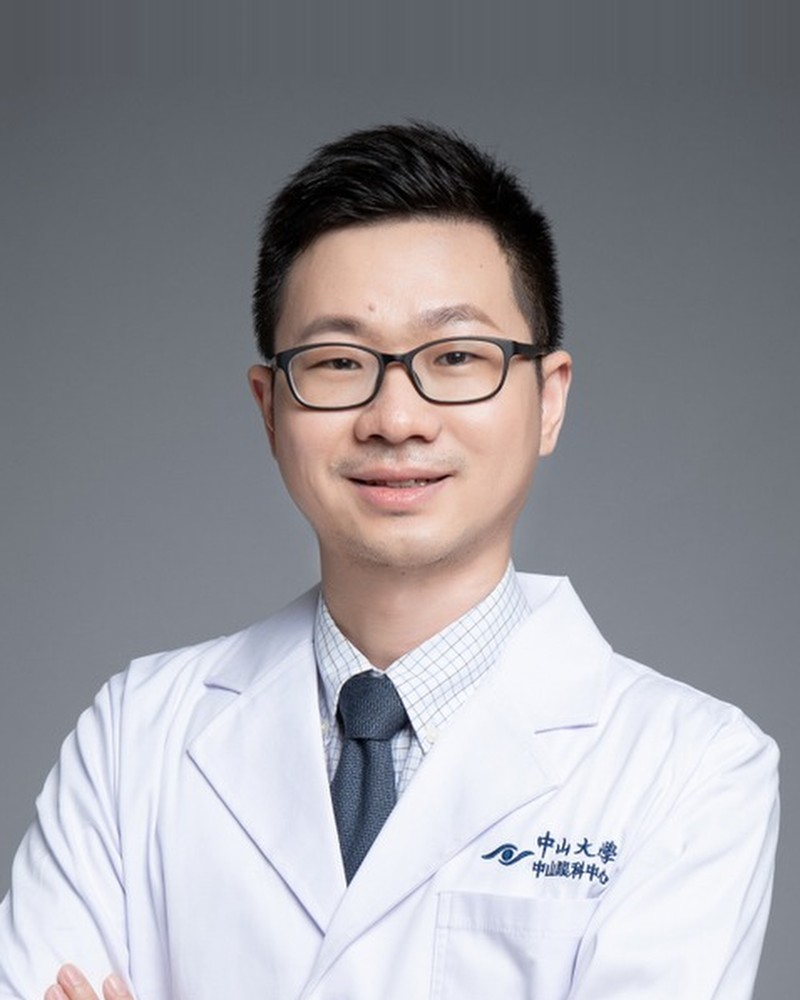
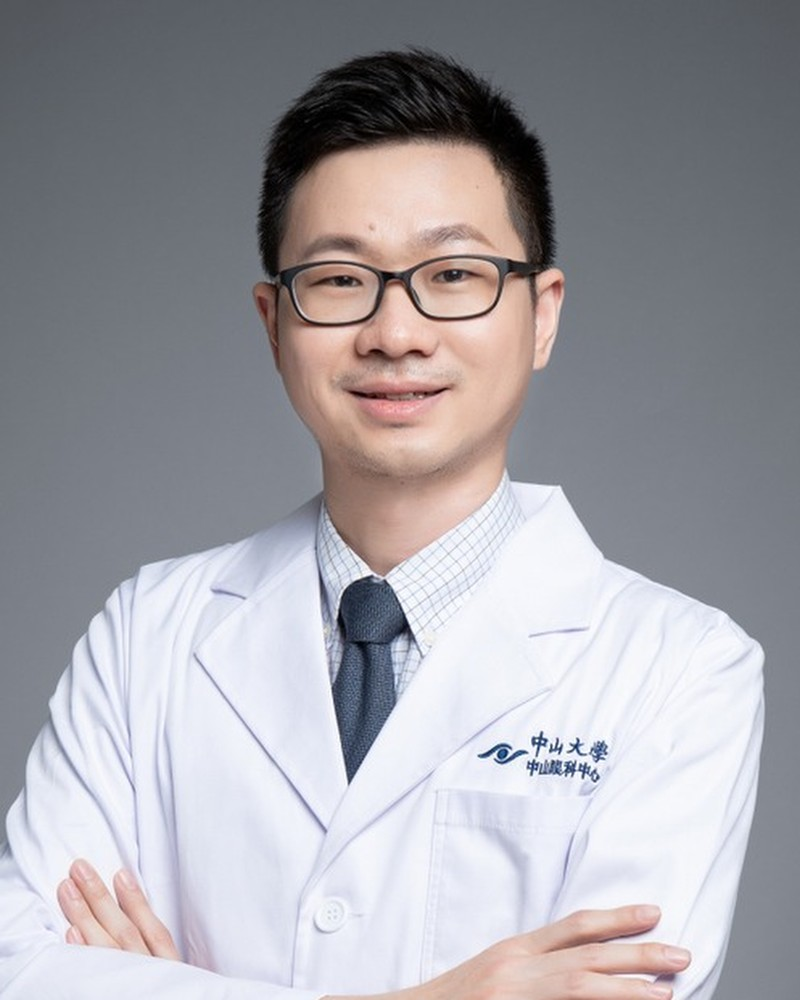
Second review pass
- Faculty photos: re-crop gao & cheng (and all five) from real pixels
  only - no synthetic fill, removing the top P-trace on gao and the
  smeared hair on cheng; heads stay aligned.
- Index hero: remove the stray white bottom border line; add a centered
  "Core Research Strengths" heading above the four capability cards.
- Headings: enlarge the eyebrow/kicker labels (e.g. "Our Cohorts").
- Page backgrounds: replace the photo heroes that reused the index image
  / looked unclear with purpose-built thematic SVGs - cohorts (cohort
  timelines), publications (rising output), data access (secure network).
- Cohorts hero chips: 18 years / Multi-omics / 7,000+ (was duplicate
  sample sizes); add ZHMC 7,000+ participants (incl. sub-cohorts) to the
  ZHMC description and sidebar.
- Bump asset cache-buster (polish5).

diff --git a/cohorts.html b/cohorts.html
@@ -7,7 +7,7 @@
 <meta name="description" content="Overview of the three ZOC-OEC longitudinal cohorts: ZAP (angle closure), GDES (diabetic eye disease), and ZHMC (high myopia).">
 <link rel="preconnect" href="https://fonts.googleapis.com">
 <link href="https://fonts.googleapis.com/css2?family=Inter:wght@400;500;600;700;800&display=swap" rel="stylesheet">
-<link rel="stylesheet" href="assets/css/site.css?v=20260620-polish4">
+<link rel="stylesheet" href="assets/css/site.css?v=20260620-polish5">
 <style>
 /* Cohort page extras */
 .cohort-overview{display:grid;grid-template-columns:repeat(3,minmax(0,1fr));gap:18px;margin-bottom:2.5rem}
@@ -122,9 +122,9 @@
       <p>Three complementary cohorts from Zhongshan Ophthalmic Center connect randomized prevention evidence, diabetic eye multi-omics, and high-myopia progression research.</p>
     </div>
     <div class="page-hero__cards" aria-label="Cohort highlights">
-      <div class="hero-chip"><strong>889</strong><span>ZAP randomized trial participants</span></div>
-      <div class="hero-chip"><strong>3,000+</strong><span>GDES diabetic eye participants</span></div>
-      <div class="hero-chip"><strong>14 years</strong><span>ZHMC high-myopia follow-up platform</span></div>
+      <div class="hero-chip"><strong>18 years</strong><span>ZAP within-person prevention RCT</span></div>
+      <div class="hero-chip"><strong>Multi-omics</strong><span>GDES imaging, proteomics &amp; metabolomics</span></div>
+      <div class="hero-chip"><strong>7,000+</strong><span>ZHMC participants incl. sub-cohorts</span></div>
     </div>
   </div>
 </div>
@@ -302,7 +302,7 @@
 
       <div class="cohort-body">
         <div class="cohort-desc">
-          <p><strong>ZHMC</strong> &mdash; the Zhongshan High Myopia Cohort &mdash; is a long-running clinical registry and prospective platform for high-myopia progression in children and adults, combining deep OCT/OCTA imaging with AI risk modelling and myopia-control intervention trials.</p>
+          <p><strong>ZHMC</strong> &mdash; the Zhongshan High Myopia Cohort &mdash; is a long-running clinical registry and prospective platform for high-myopia progression in children and adults. Together with its sub-cohorts it now follows more than <strong>7,000</strong> participants, combining deep OCT/OCTA imaging with AI risk modelling and myopia-control intervention trials.</p>
 
           <div class="cohort-keypoints">
             <div class="cohort-keypoint"><strong>High-myopia registry</strong><span>Longitudinal records for children and adults with high myopia.</span></div>
@@ -325,12 +325,12 @@
 
         <div class="cohort-stats">
           <div class="cstat cstat--zhmc">
-            <div class="cstat__num">14+</div>
-            <div class="cstat__lbl">Years Follow-up</div>
+            <div class="cstat__num">7,000+</div>
+            <div class="cstat__lbl">Participants (incl. sub-cohorts)</div>
           </div>
           <div class="cstat cstat--zhmc">
-            <div class="cstat__num">OCT</div>
-            <div class="cstat__lbl">Deep Imaging</div>
+            <div class="cstat__num">14+</div>
+            <div class="cstat__lbl">Years Follow-up</div>
           </div>
           <div class="cstat cstat--zhmc">
             <div class="cstat__num">AI</div>

diff --git a/assets/css/site.css b/assets/css/site.css
@@ -111,7 +111,6 @@ p{color:rgba(255,255,255,.82)}
   background-position:right 44%;
   background-repeat:no-repeat;
   background-color:var(--bg);
-  border-bottom:1px solid rgba(255,255,255,.1);
 }
 .hero::before{
   content:'';position:absolute;inset:0;z-index:0;
@@ -191,8 +190,8 @@ p{color:rgba(255,255,255,.82)}
 .sec-hd--c{text-align:center}
 .eyebrow{
   display:inline-flex;align-items:center;gap:8px;
-  font-size:.73rem;font-weight:700;letter-spacing:.14em;
-  text-transform:uppercase;color:var(--cyan);margin-bottom:10px;
+  font-size:.92rem;font-weight:800;letter-spacing:.16em;
+  text-transform:uppercase;color:var(--cyan);margin-bottom:12px;
 }
 .sec-title{font-size:clamp(1.75rem,3.2vw,2.4rem);font-weight:800}
 .sec-desc{color:rgba(255,255,255,.56);margin-top:12px;line-height:1.72;font-size:1.02rem}
@@ -213,6 +212,8 @@ p{color:rgba(255,255,255,.82)}
 }
 
 /* Feature strip */
+.feature-intro{max-width:1280px;margin:6px auto 0;padding:22px 24px 0;text-align:center}
+.feature-intro .sec-title{margin-top:6px}
 .feature-strip{
   display:grid;grid-template-columns:repeat(4,minmax(0,1fr));
   gap:22px;
@@ -350,10 +351,10 @@ p{color:rgba(255,255,255,.82)}
     linear-gradient(100deg,rgba(5,13,29,.92) 0%,rgba(7,22,44,.78) 52%,rgba(0,61,92,.38) 100%),
     radial-gradient(ellipse 68% 100% at 86% 42%,rgba(0,212,255,.16),transparent 70%);
 }
-.page-hero--cohorts{background-image:url('/images/Cover.png');background-position:right 45%}
-.page-hero--publications{background-image:url('/images/retina.jpg');background-position:center 42%}
+.page-hero--cohorts{background-image:url('/images/bg-cohorts.svg');background-position:center}
+.page-hero--publications{background-image:url('/images/bg-publications.svg');background-position:center}
 .page-hero--team{background-image:url('/images/team-bg.jpg');background-position:center}
-.page-hero--data{background-image:url('/images/pacg.jpg');background-position:center 38%}
+.page-hero--data{background-image:url('/images/bg-data.svg');background-position:center}
 .page-hero__grid{
   position:relative;z-index:1;display:grid;grid-template-columns:minmax(0,1fr) 360px;
   gap:48px;align-items:center;

diff --git a/index.html b/index.html
@@ -7,7 +7,7 @@
 <meta name="description" content="ZOC-OEC is the Zhongshan Ophthalmic Center Ocular Epidemiology Consortium &mdash; advancing precision ophthalmology through longitudinal cohort research, multimodal imaging, and global collaboration.">
 <link rel="preconnect" href="https://fonts.googleapis.com">
 <link href="https://fonts.googleapis.com/css2?family=Inter:wght@400;500;600;700;800&display=swap" rel="stylesheet">
-<link rel="stylesheet" href="assets/css/site.css?v=20260620-polish4">
+<link rel="stylesheet" href="assets/css/site.css?v=20260620-polish5">
 </head>
 <body>
 
@@ -72,6 +72,10 @@
 </section>
 
 <!-- FEATURE STRIP -->
+<div class="feature-intro">
+  <p class="eyebrow">What We Do</p>
+  <h2 class="sec-title">Core Research Strengths</h2>
+</div>
 <div class="feature-strip">
   <div class="feature-item">
     <div class="feature-item__icon">
@@ -307,4 +311,4 @@
   </p>
 </footer>
 
-<script src="assets/js/site.js?v=20260620-polish4"></script>
+<script src="assets/js/site.js?v=20260620-polish5"></script>

diff --git a/publications.html b/publications.html
@@ -7,7 +7,7 @@
 <meta name="description" content="Browse ZOC-OEC publications from the ZAP, GDES, and ZHMC cohorts. Filter by cohort, year, or search by title, author, or journal.">
 <link rel="preconnect" href="https://fonts.googleapis.com">
 <link href="https://fonts.googleapis.com/css2?family=Inter:wght@400;500;600;700;800&display=swap" rel="stylesheet">
-<link rel="stylesheet" href="assets/css/site.css?v=20260620-polish4">
+<link rel="stylesheet" href="assets/css/site.css?v=20260620-polish5">
 </head>
 <body>
 
@@ -667,6 +667,6 @@
   <p class="footer__text">&copy; 2025 ZOC-OEC &mdash; <a href="https://www.gzzoc.com" target="_blank" rel="noopener">Zhongshan Ophthalmic Center</a>, Sun Yat-sen University</p>
 </footer>
 
-<script src="assets/js/site.js?v=20260620-polish4"></script>
+<script src="assets/js/site.js?v=20260620-polish5"></script>
 </body>
 </html>

diff --git a/contact.html b/contact.html
@@ -10,7 +10,7 @@ layout: none
 <meta name="description" content="Contact the ZOC-OEC research group at Zhongshan Ophthalmic Center, Sun Yat-sen University.">
 <link rel="preconnect" href="https://fonts.googleapis.com">
 <link href="https://fonts.googleapis.com/css2?family=Inter:wght@400;500;600;700;800&display=swap" rel="stylesheet">
-<link rel="stylesheet" href="assets/css/site.css?v=20260620-polish4">
+<link rel="stylesheet" href="assets/css/site.css?v=20260620-polish5">
 </head>
 <body>
 
@@ -103,6 +103,6 @@ layout: none
   <p class="footer__text">&copy; 2025 ZOC-OEC &mdash; <a href="https://www.gzzoc.com" target="_blank" rel="noopener">Zhongshan Ophthalmic Center</a>, Sun Yat-sen University</p>
 </footer>
 
-<script src="assets/js/site.js?v=20260620-polish4"></script>
+<script src="assets/js/site.js?v=20260620-polish5"></script>
 </body>
 </html>

diff --git a/team.html b/team.html
@@ -7,7 +7,7 @@
 <meta name="description" content="Meet the ZOC-OEC research team led by Professor Wei Wang at Zhongshan Ophthalmic Center, Sun Yat-sen University.">
 <link rel="preconnect" href="https://fonts.googleapis.com">
 <link href="https://fonts.googleapis.com/css2?family=Inter:wght@400;500;600;700;800&display=swap" rel="stylesheet">
-<link rel="stylesheet" href="assets/css/site.css?v=20260620-polish4">
+<link rel="stylesheet" href="assets/css/site.css?v=20260620-polish5">
 </head>
 <body>
 
@@ -159,6 +159,6 @@
   <p class="footer__text">&copy; 2025 ZOC-OEC &mdash; <a href="https://www.gzzoc.com" target="_blank" rel="noopener">Zhongshan Ophthalmic Center</a>, Sun Yat-sen University</p>
 </footer>
 
-<script src="assets/js/site.js?v=20260620-polish4"></script>
+<script src="assets/js/site.js?v=20260620-polish5"></script>
 </body>
 </html>

diff --git a/data_access.html b/data_access.html
@@ -7,7 +7,7 @@
 <meta name="description" content="Apply to access ZOC-OEC research data from the ZAP, GDES, and ZHMC cohorts for collaborative research.">
 <link rel="preconnect" href="https://fonts.googleapis.com">
 <link href="https://fonts.googleapis.com/css2?family=Inter:wght@400;500;600;700;800&display=swap" rel="stylesheet">
-<link rel="stylesheet" href="assets/css/site.css?v=20260620-polish4">
+<link rel="stylesheet" href="assets/css/site.css?v=20260620-polish5">
 </head>
 <body>
 
@@ -163,6 +163,6 @@
   <p class="footer__text">&copy; 2025 ZOC-OEC &mdash; <a href="https://www.gzzoc.com" target="_blank" rel="noopener">Zhongshan Ophthalmic Center</a>, Sun Yat-sen University</p>
 </footer>
 
-<script src="assets/js/site.js?v=20260620-polish4"></script>
+<script src="assets/js/site.js?v=20260620-polish5"></script>
 </body>
 </html>
